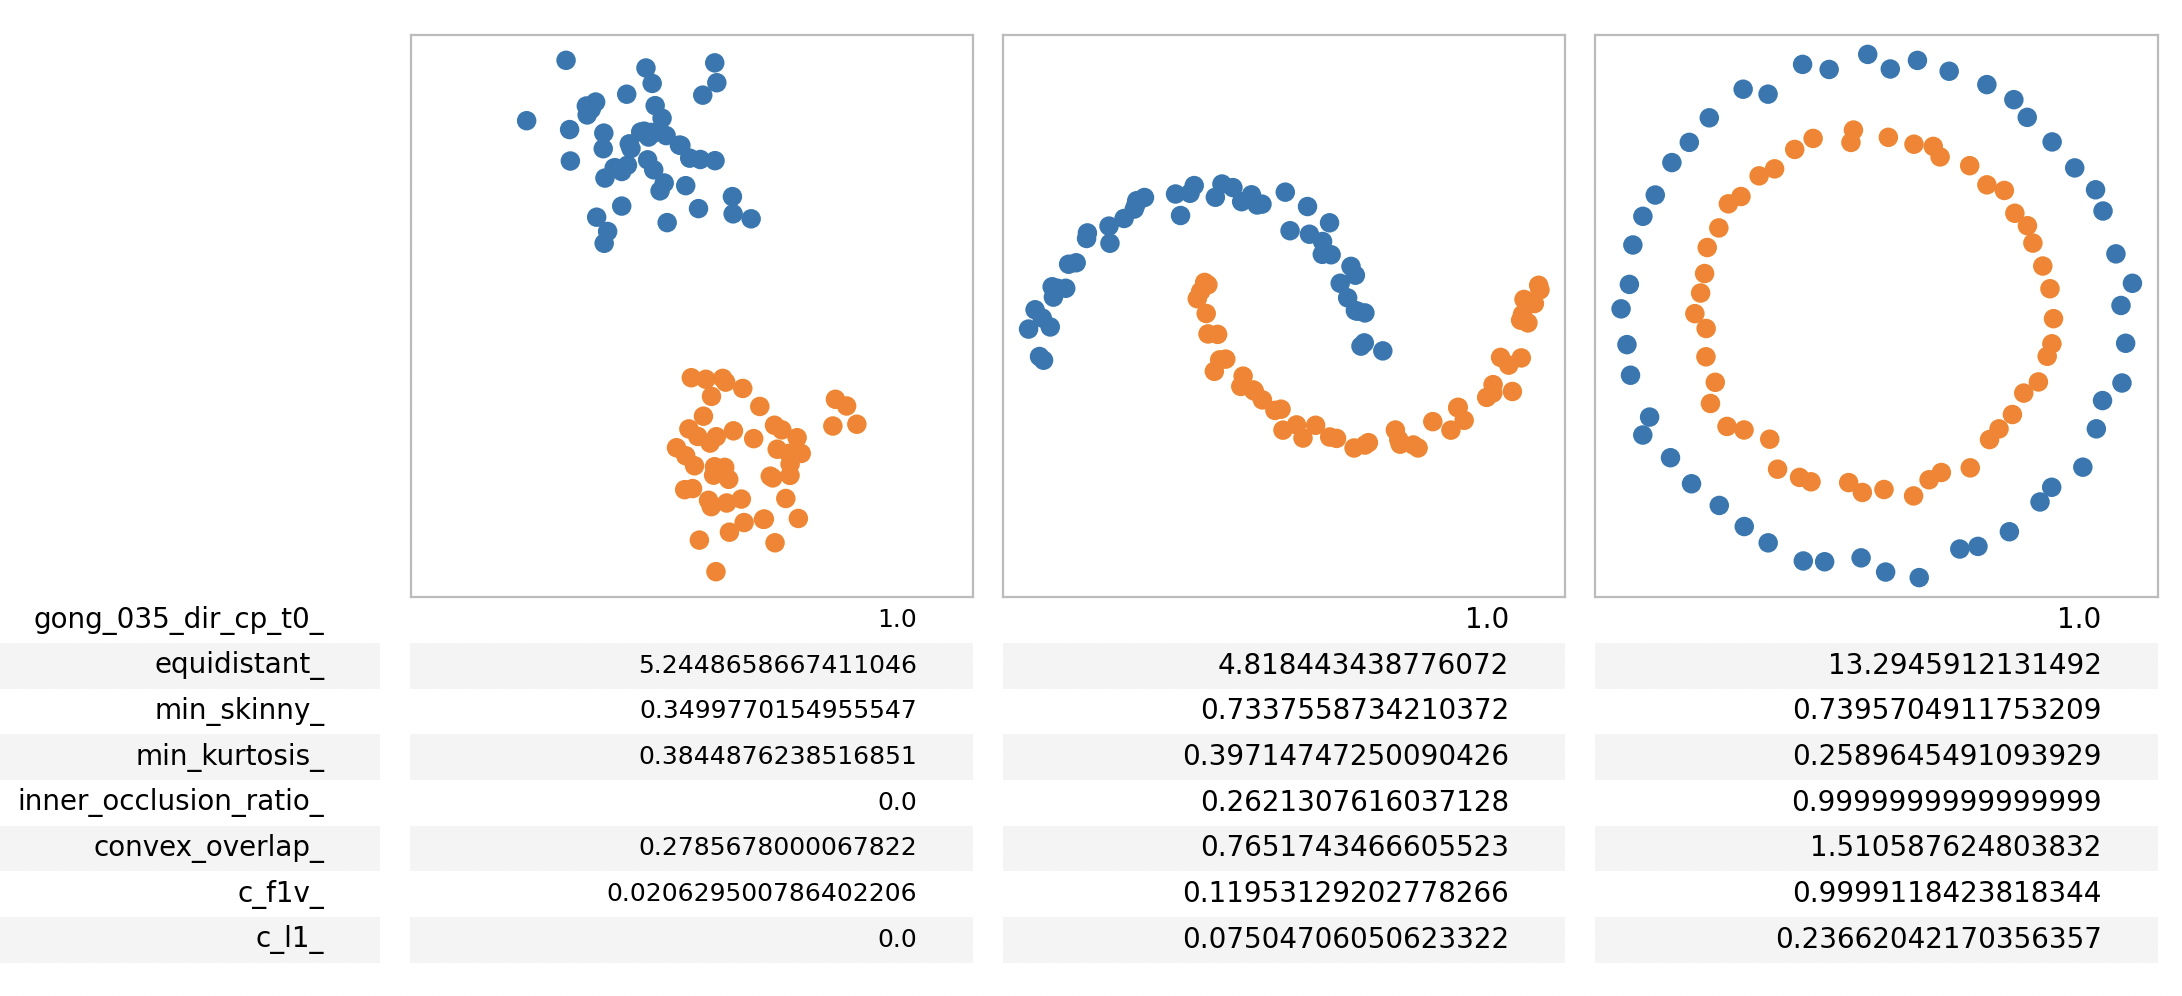
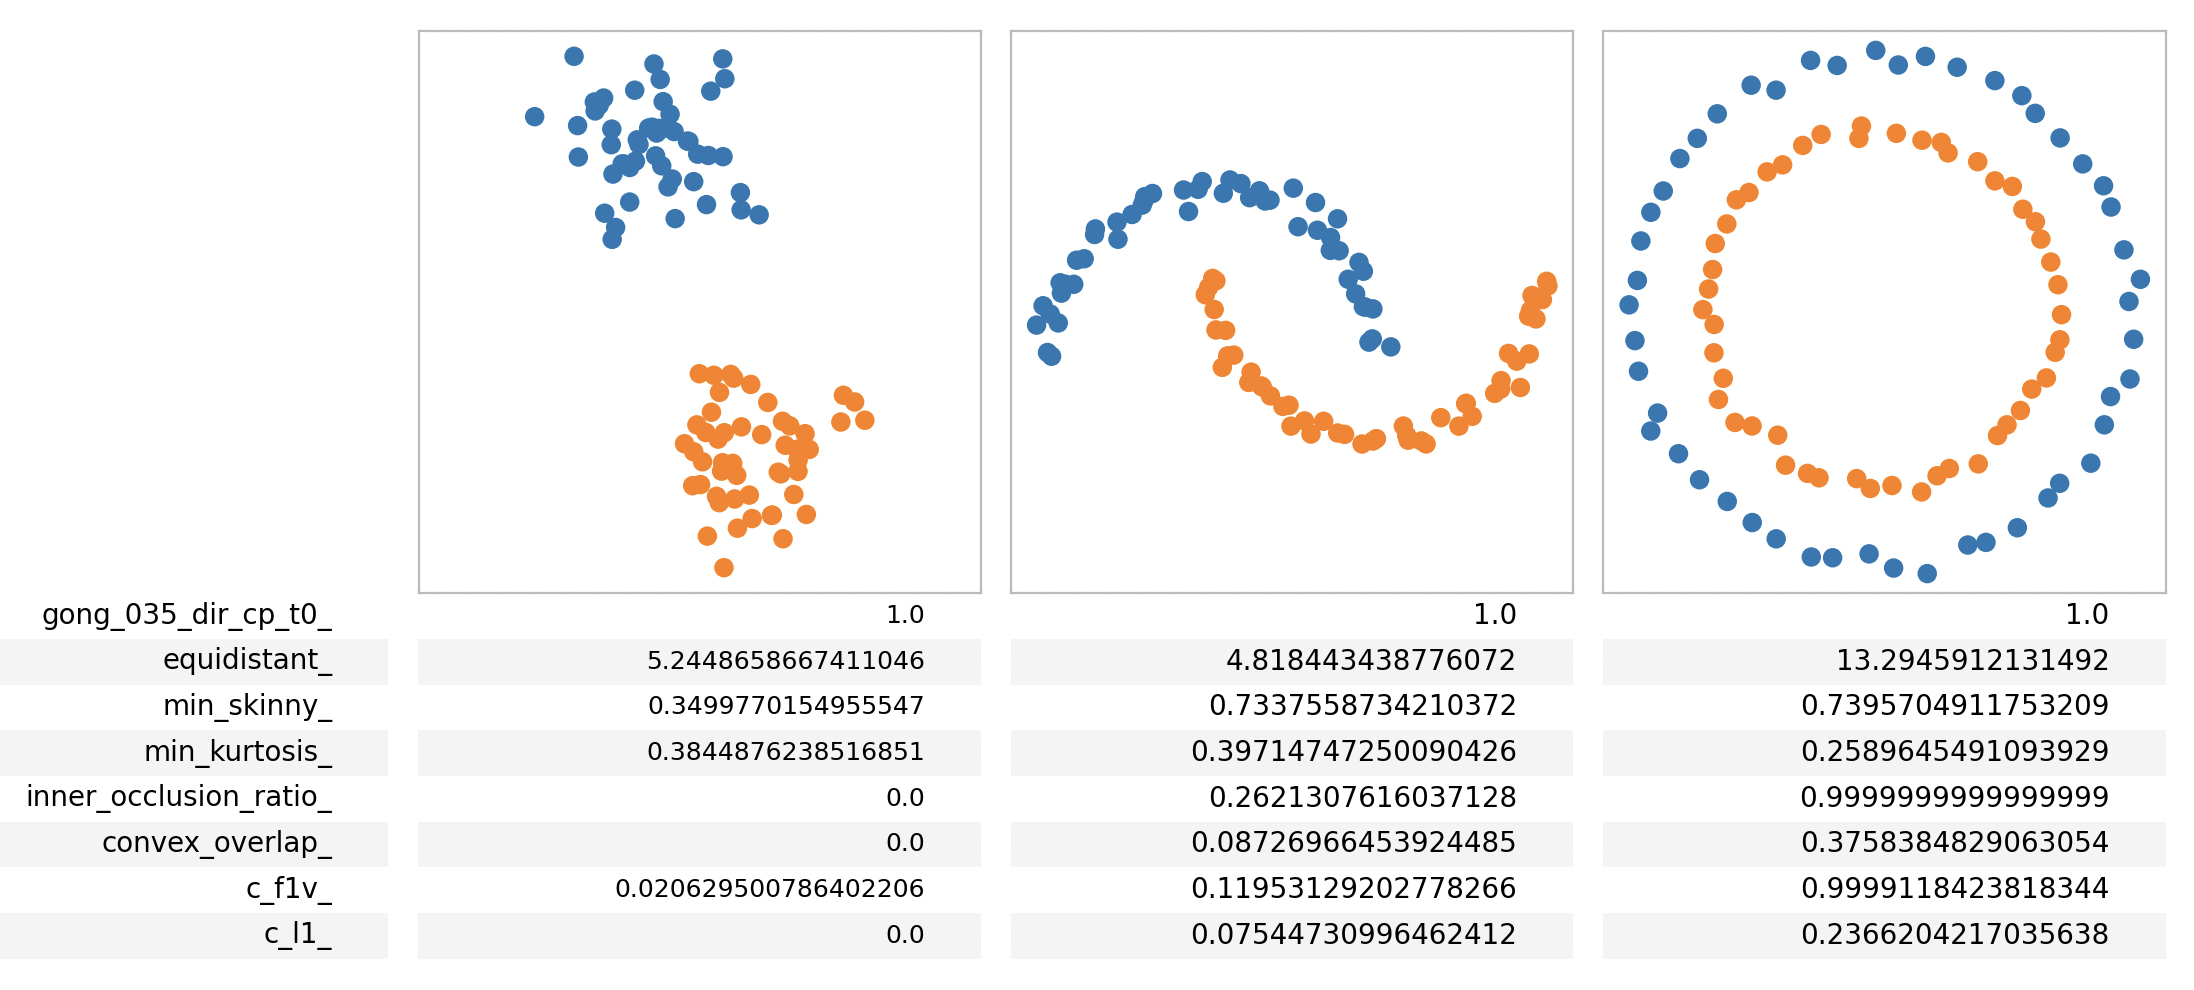
fixed bug in overlap measures

diff --git a/multiclass_scatterplot_features/multiclass_scatterplot_features_.py b/multiclass_scatterplot_features/multiclass_scatterplot_features_.py
@@ -507,14 +507,14 @@ class MulticlassScatterFeatures:
 
         self.alpha_overlap_ = 0
         for i in range(len(self._alpha_hulls)):
-            for j in range(i, len(self._alpha_hulls)):
+            for j in range(i + 1, len(self._alpha_hulls)):
                 self.alpha_overlap_ += (
                     self._alpha_hulls[i].intersection(self._alpha_hulls[j]).area
                 )
 
         self.convex_overlap_ = 0
         for i in range(len(self._convex_hulls)):
-            for j in range(i, len(self._convex_hulls)):
+            for j in range(i + 1, len(self._convex_hulls)):
                 self.convex_overlap_ += (
                     self._convex_hulls[i].intersection(self._convex_hulls[j]).area
                 )
